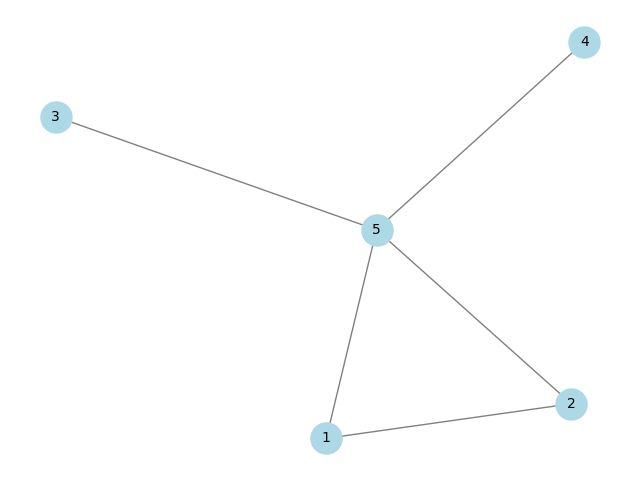
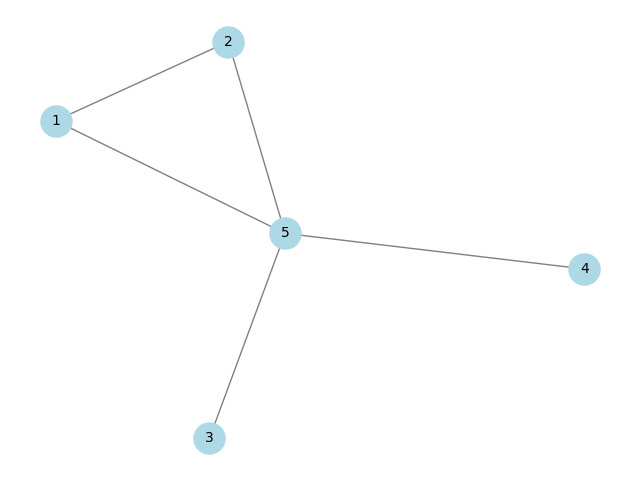
melhora visualizacoes

diff --git a/graph_lib/io.py b/graph_lib/io.py
@@ -1,43 +1,43 @@
 def le_grafo(filename):
     with open(filename, 'r') as f:
         num_vertices = int(f.readline().strip())
-        edges = []
-        for line in f:
-            v1, v2 = map(int, line.strip().split())
-            edges.append((v1, v2))
-    return num_vertices, edges
+        arestas = []
+        for linha in f:
+            v1, v2 = map(int, linha.strip().split())
+            arestas.append((v1, v2))
+    return num_vertices, arestas
 
-def escreve_grafo(num_vertices, edges, graph, filename):
+def escreve_grafo(num_vertices, arestas, grafo, filename):
     with open(filename, 'w') as f:
         f.write(f"# n = {num_vertices}\n")
-        f.write(f"# m = {edges}\n")
+        f.write(f"# m = {arestas}\n")
         
-        degree_sum = sum(len(neighbors) if isinstance(graph, list) else sum(row) 
-                         for row, neighbors in zip(graph, graph))
-        degree_avg = degree_sum / num_vertices
-        f.write(f"# d_medio = {degree_avg:.1f}\n")
+        grau_soma = sum(len(vizinhos) if isinstance(grafo, list) else sum(coluna) 
+                         for coluna, vizinhos in zip(grafo, grafo))
+        media_grau = grau_soma / num_vertices
+        f.write(f"# d_medio = {media_grau:.1f}\n")
         
-        degree_count = [0] * num_vertices
-        for neighbors in graph:
-            degree_count[len(neighbors) if isinstance(graph, list) else sum(neighbors)] += 1
+        conta_grau = [0] * num_vertices
+        for vizinhos in grafo:
+            conta_grau[len(vizinhos) if isinstance(grafo, list) else sum(vizinhos)] += 1
         
-        for degree, count in enumerate(degree_count):
-            if count > 0:
-                f.write(f"{degree} {count / num_vertices:.2f}\n")
+        for grau, cont in enumerate(conta_grau):
+            if cont > 0:
+                f.write(f"{grau} {cont / num_vertices:.2f}\n")
                 
 def le_grafo_com_peso(filename):
     with open(filename, 'r') as f:
         num_vertices = int(f.readline().strip())
-        edges = []
-        for line in f:
-            v1, v2, weight = line.strip().split()
-            edges.append((int(v1), int(v2), float(weight)))
-    return num_vertices, edges
+        arestas = []
+        for linha in f:
+            v1, v2, peso = linha.strip().split()
+            arestas.append((int(v1), int(v2), float(peso)))
+    return num_vertices, arestas
 
-def escreve_grafo_com_peso(num_vertices, edges, graph, filename):
+def escreve_grafo_com_peso(num_vertices, arestas, grafo, filename):
     with open(filename, 'w') as f:
         f.write(f"# n = {num_vertices}\n")
-        f.write(f"# m = {edges}\n")
+        f.write(f"# m = {arestas}\n")
         for v1 in range(num_vertices):
-            for v2, weight in graph[v1]:
-                f.write(f"{v1+1} {v2+1} {weight}\n")
+            for v2, peso in grafo[v1]:
+                f.write(f"{v1+1} {v2+1} {peso}\n")

diff --git a/graph_lib/grafo.py b/graph_lib/grafo.py
@@ -1,3 +1,4 @@
+import random
 from .representacao import criar_lista_de_adjacencia, criar_matriz_de_adjacencia
 from .busca import bfs, dfs
 from .componentes import achar_conexos
@@ -7,7 +8,7 @@ from .grafo_com_pesos import GrafoPeso
 import networkx as nx
 import matplotlib.pyplot as plt
 
-class Graph:
+class Grafo:
     def __init__(self, num_vertices, representation="list"):
         self.num_vertices = num_vertices
         self.arestas = 0
@@ -71,4 +72,51 @@ class Graph:
         if isinstance(self, GrafoPeso):
             return self.menor_caminho(vertice_ini, target_vertex)  # usa Dijkstra
         else:
-            return self.bfs(vertice_ini, target_vertex)  # usa BFS
+            return self.bfs_menor_caminho(vertice_ini, target_vertex)  # usa BFS
+    
+    def bfs_menor_caminho(self, vertice_ini, vertice_alvo=None):
+    # Usa o BFS para calcular o menor caminho (grafo não ponderado)
+        pai, _ = bfs(self.grafo, vertice_ini)
+        
+        if vertice_alvo is not None:
+            caminho = []
+            atual = vertice_alvo
+            while atual != -1:
+                caminho.append(atual)
+                atual = pai[atual]
+            caminho.reverse()
+            return caminho
+        else:
+            return pai
+        
+    def visualizar_componentes_conexos(self, filename="grafo_componentes.png"):
+        componentes = self.achar_conexos()  # Obtém os componentes conexos
+        G = nx.Graph()
+
+        # Adiciona as arestas ao grafo NetworkX
+        if isinstance(self.grafo, list):
+            for i, vizinhos in enumerate(self.grafo):
+                for vizinho in vizinhos:
+                    if i < vizinho:  # Evitar duplicação de arestas
+                        G.add_edge(i + 1, vizinho + 1)
+        else:
+            for i in range(self.num_vertices):
+                for j in range(i + 1, self.num_vertices):
+                    if self.grafo[i][j] == 1:
+                        G.add_edge(i + 1, j + 1)
+
+        # Gerar cores diferentes para cada componente
+        cores_componentes = {}
+        for idx, componente in enumerate(componentes):
+            cor = "#" + ''.join([random.choice('0123456789ABCDEF') for _ in range(6)])
+            for vertice in componente:
+                cores_componentes[vertice + 1] = cor  # Adiciona +1 para ajustar o índice ao `networkx`
+
+        # Desenhar o grafo com cores para os componentes
+        pos = nx.spring_layout(G)
+        nx.draw(G, pos, with_labels=True, node_color=[cores_componentes[node] for node in G.nodes()],
+                edge_color='gray', node_size=500, font_size=10)
+
+        # Salvar a imagem
+        plt.savefig(filename)
+        plt.close()

diff --git a/main.py b/main.py
@@ -1,13 +1,43 @@
-from graph_lib import Graph
+from graph_lib import Grafo
 
+grafo = Grafo.from_file('input.txt', representation='list')
+grafo_desconexo = Grafo.from_file('input_desconexo.txt', representation='matrix')
 
-grafo = Graph.from_file('input.txt', representation='list')
+parent, level = grafo.bfs(0)  # Busca em largura a partir do vértice 0
 
-parent, level = grafo.bfs(0) # busca em largura a partir do vértice 0
+componentes = grafo.achar_conexos()
 
-componentes = grafo.achar_conexos() # componentes conexos
+grafo_desconexo.visualizar_componentes_conexos('images/grafo_desconexo_componentes_visualizacao.png')
 
 grafo.to_file('output.txt')
 grafo.cria_img_grafo('images/grafo_visualizacao.png')
-#print(parent)
-#print(componentes)
+#grafo_desconexo.to_file('output_desconexo.txt') # erro
+
+"""
+Visualizar a Busca por Largura:
+"""
+print("Nível dos vértices a partir do vértice 0:")
+for v in range(len(level)):
+    print(f"Vértice número {v+1}: Nível {level[v]}")
+
+print("\nÁrvore de busca (Pai de cada vértice):")
+for v in range(len(parent)):
+    if parent[v] != -1:  # exclui o vértice inicial e vértices inalcançáveis
+        print(f"Vértice número {v+1}: Pai {parent[v]}")
+    else:
+        print(f"Vértice número {v+1}: Sem pai (raiz ou inalcançável)")
+
+def reconstruir_caminho(parent, vertice_alvo):
+    caminho = []
+    atual = vertice_alvo
+    while atual != -1:  # -1 indica que chegamos à raiz ou que não há caminho
+        caminho.append(atual)
+        atual = parent[atual]
+    caminho.reverse()
+    return caminho
+
+vertice_alvo = 2
+caminho = reconstruir_caminho(parent, vertice_alvo)
+print(f"\nCaminho do vértice 0 até o vértice número{vertice_alvo+1}: {caminho}")
+
+#TODO - Verificar caminho mínimo

diff --git a/graph_lib/componentes.py b/graph_lib/componentes.py
@@ -1,24 +1,24 @@
-def achar_conexos(graph):
-    num_vertices = len(graph)
+def achar_conexos(grafo):
+    num_vertices = len(grafo)
     visited = [False] * num_vertices
-    components = []
+    componentes = []
     
-    def dfs_component(vertex, component):
-        visited[vertex] = True
-        component.append(vertex)
+    def dfs_component(vertice, componente):
+        visited[vertice] = True
+        componente.append(vertice)
         
-        neighbors = range(num_vertices) if isinstance(graph, list) else graph[vertex]
-        for neighbor in neighbors:
-            if isinstance(graph, list) and neighbor not in graph[vertex]:
+        vizinhos = range(num_vertices) if isinstance(grafo, list) else grafo[vertice]
+        for vizinho in vizinhos:
+            if isinstance(grafo, list) and vizinho not in grafo[vertice]:
                 continue
-            if not visited[neighbor]:
-                dfs_component(neighbor, component)
+            if not visited[vizinho]:
+                dfs_component(vizinho, componente)
     
-    for vertex in range(num_vertices):
-        if not visited[vertex]:
-            component = []
-            dfs_component(vertex, component)
-            components.append(component)
+    for vertice in range(num_vertices):
+        if not visited[vertice]:
+            componente = []
+            dfs_component(vertice, componente)
+            componentes.append(componente)
     
-    components.sort(key=len, reverse=True)
-    return components
+    componentes.sort(key=len, reverse=True)
+    return componentes

diff --git a/main_pesos.py b/main_pesos.py
@@ -1,0 +1,10 @@
+from graph_lib import GrafoPeso
+#TODO - Verificar caminho mínimo
+grafo_peso = GrafoPeso.from_file('input_com_pesos.txt')
+
+# Encontra menor caminho em grafo ponderado
+distancia, caminho = grafo_peso.menor_caminho(0, 4)  # Exemplo: caminho do vértice 0 ao vértice 4
+print(f"Distância: {distancia}, Caminho: {caminho}")
+
+# Gera imagem do grafo ponderado
+grafo_peso.cria_img_grafo_peso('images/grafo_peso_visualizacao.png')

diff --git a/graph_lib/grafo_com_pesos.py b/graph_lib/grafo_com_pesos.py
@@ -1,6 +1,9 @@
 from .representacao import criar_lista_de_adjacencia_peso, criar_matriz_de_adjacencia_peso
 from .caminho_minimo import dijkstra, get_menor_caminho
 
+import networkx as nx
+import matplotlib.pyplot as plt
+
 class GrafoPeso:
     def __init__(self, num_vertices, representation="list"):
         self.num_vertices = num_vertices

diff --git a/graph_lib/__init__.py b/graph_lib/__init__.py
@@ -1,1 +1,2 @@
-from .grafo import Graph
+from .grafo import Grafo
+from .grafo_com_pesos import GrafoPeso
